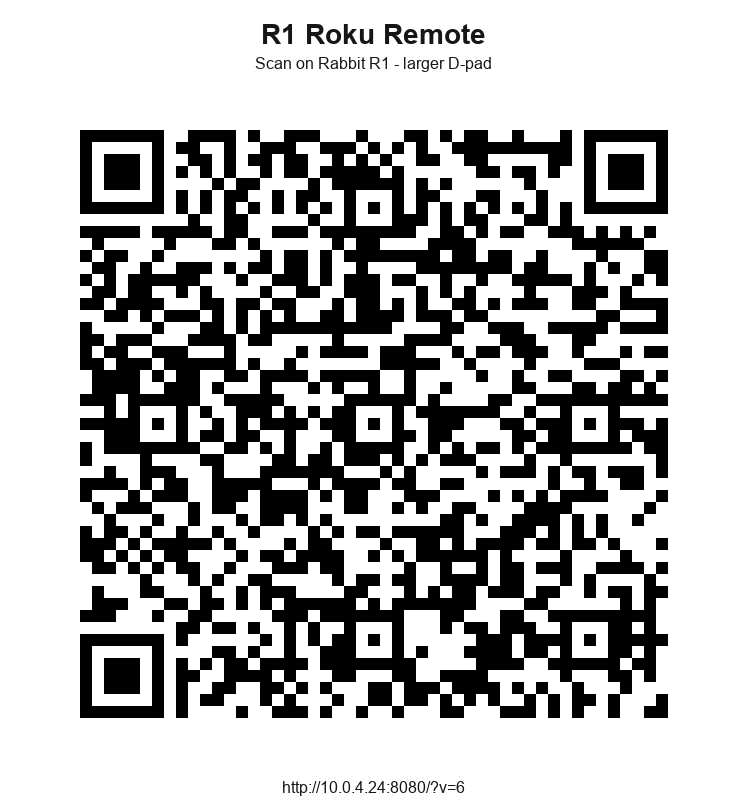
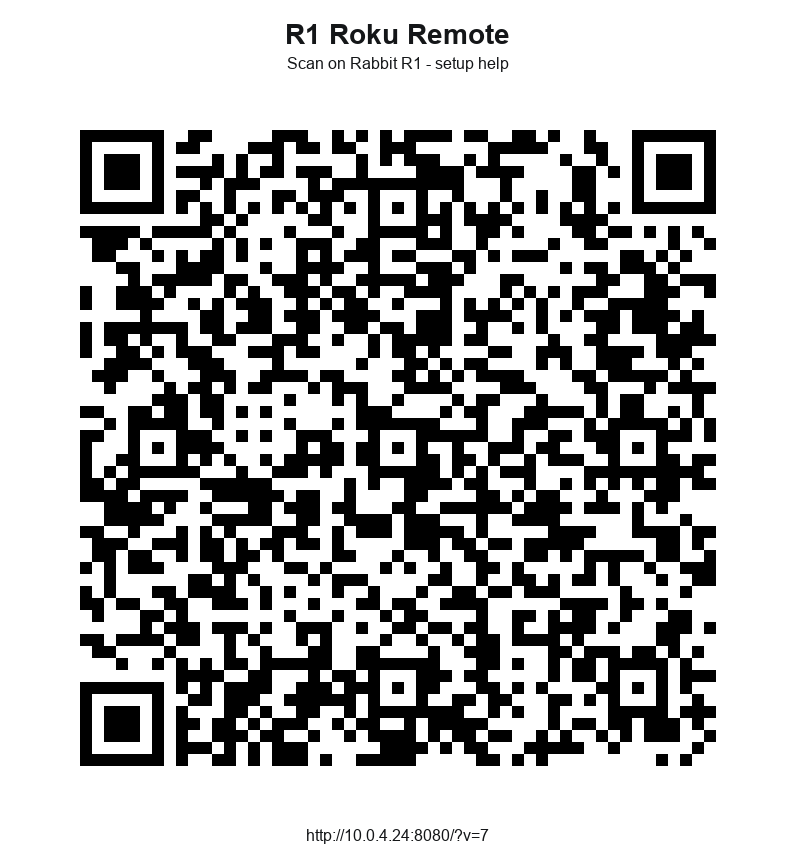
Restore remote layout and add setup help

diff --git a/web-creation/css/styles.css b/web-creation/css/styles.css
@@ -47,7 +47,7 @@ h1 {
 }
 
 p {
-    width: 190px;
+    width: 160px;
     margin: 2px 0 0;
     color: #aeb4b8;
     font-size: 9px;
@@ -58,12 +58,17 @@ p {
 }
 
 .icon-button {
-    width: 30px;
+    width: 27px;
     height: 26px;
     border: 1px solid #292d31;
     border-radius: 6px;
     color: white;
     background: #17191c;
+}
+
+.top-actions {
+    display: flex;
+    gap: 4px;
 }
 
 .hidden {
@@ -80,6 +85,43 @@ p {
     background: #101215;
     overflow-y: auto;
     box-shadow: 0 10px 24px rgba(0, 0, 0, 0.45);
+}
+
+.help-panel {
+    position: absolute;
+    inset: 38px 6px auto;
+    z-index: 6;
+    padding: 8px;
+    border: 1px solid #7b2bd1;
+    border-radius: 8px;
+    background: #101215;
+    box-shadow: 0 10px 24px rgba(0, 0, 0, 0.5);
+}
+
+.help-panel h2 {
+    margin: 0 0 5px;
+    color: #f8f5f0;
+    font-size: 14px;
+    line-height: 16px;
+}
+
+.help-panel p {
+    width: 100%;
+    margin: 0 0 5px;
+    white-space: normal;
+    color: #d5d9dd;
+    font-size: 10px;
+    line-height: 13px;
+}
+
+.help-panel button {
+    width: 100%;
+    height: 29px;
+    border: 0;
+    border-radius: 6px;
+    color: white;
+    background: #7b2bd1;
+    font-weight: 800;
 }
 
 .text-panel {
@@ -209,29 +251,26 @@ input {
 .dpad {
     display: grid;
     grid-template-columns: repeat(3, 1fr);
-    grid-template-rows: repeat(3, 48px);
+    grid-template-rows: repeat(3, 38px);
     gap: 0;
-    padding: 4px;
-    border: 1px solid #7332ba;
-    border-radius: 8px;
-    background: #38105f;
-    box-shadow: inset 0 0 0 1px #2b0b4d;
+    padding: 0;
+    border: 0;
+    border-radius: 0;
+    background: transparent;
+    box-shadow: none;
 }
 
-.dpad-key,
-.dpad-corner {
+.dpad span {
+    background: transparent;
+}
+
+.dpad-key {
     min-width: 0;
     border: 1px solid #7537bd;
     color: white;
     background: #6021a0;
     font-size: 11px;
     font-weight: 800;
-}
-
-.dpad-corner {
-    background: #4c1780;
-    color: #e9dfff;
-    font-size: 9px;
 }
 
 .dpad-up {
@@ -254,29 +293,13 @@ input {
     border-radius: 50%;
     color: #15051f;
     background: #f7f1ff;
-    font-size: 15px;
-    box-shadow: 0 0 0 3px #4c1780;
-}
-
-.dpad-replay {
-    border-radius: 8px 0 0 0;
-}
-
-.dpad-info {
-    border-radius: 0 8px 0 0;
-}
-
-.dpad-search {
-    border-radius: 0 0 0 8px;
-}
-
-.dpad-enter {
-    border-radius: 0 0 8px 0;
+    font-size: 13px;
+    box-shadow: 0 0 0 3px #050607;
 }
 
 .volume-panel {
     display: grid;
-    grid-template-rows: 18px 1fr 31px;
+    grid-template-rows: 17px 1fr 28px;
     gap: 4px;
     align-items: stretch;
 }
@@ -335,7 +358,7 @@ input {
 
 .volume-panel button {
     min-width: 0;
-    height: 31px;
+    height: 28px;
     padding: 0;
     border: 1px solid #30353a;
     border-radius: 8px;
@@ -346,8 +369,15 @@ input {
 }
 
 .transport-row button {
-    height: 36px;
+    height: 31px;
     background: #111315;
+}
+
+.utility-row button {
+    height: 29px;
+    color: #e9e2ef;
+    background: #261737;
+    border-color: #4d236f;
 }
 
 button.active,

diff --git a/web-creation/index.html b/web-creation/index.html
@@ -13,7 +13,17 @@
                 <h1>Roku</h1>
                 <p id="status">Set a Roku IP</p>
             </div>
-            <button id="settingsBtn" class="icon-button" aria-label="Settings">...</button>
+            <div class="top-actions">
+                <button id="helpBtn" class="icon-button" aria-label="Help">?</button>
+                <button id="settingsBtn" class="icon-button" aria-label="Settings">...</button>
+            </div>
+        </section>
+
+        <section id="helpPanel" class="help-panel hidden">
+            <h2>Roku Setup</h2>
+            <p>On the TV, open Settings &gt; System &gt; Advanced system settings &gt; Control by mobile apps.</p>
+            <p>Set Network access to Enabled. If buttons still fail, use Permissive.</p>
+            <button id="closeHelpBtn">Got it</button>
         </section>
 
         <section id="settings" class="settings hidden">
@@ -45,17 +55,17 @@
 
             <div class="control-stage">
                 <div class="dpad" aria-label="Directional pad">
-                    <button class="dpad-corner dpad-replay" data-key="InstantReplay" aria-label="Replay">Replay</button>
+                    <span></span>
                     <button class="dpad-key dpad-up" data-key="Up" aria-label="Up">Up</button>
-                    <button class="dpad-corner dpad-info" data-key="Info" aria-label="Info">Info</button>
+                    <span></span>
 
                     <button class="dpad-key dpad-left" data-key="Left" aria-label="Left">Left</button>
                     <button class="dpad-key dpad-ok" data-key="Select" aria-label="Select">OK</button>
                     <button class="dpad-key dpad-right" data-key="Right" aria-label="Right">Right</button>
 
-                    <button class="dpad-corner dpad-search" data-key="Search" aria-label="Search">Search</button>
+                    <span></span>
                     <button class="dpad-key dpad-down" data-key="Down" aria-label="Down">Down</button>
-                    <button class="dpad-corner dpad-enter" data-key="Enter" aria-label="Enter">Enter</button>
+                    <span></span>
                 </div>
 
                 <div class="volume-panel" aria-label="Volume controls">
@@ -74,6 +84,12 @@
                 <button data-key="Play">Play</button>
                 <button data-key="Fwd">Fwd</button>
             </div>
+
+            <div class="utility-row">
+                <button data-key="Info">Info</button>
+                <button data-key="InstantReplay">Replay</button>
+                <button data-key="Search">Search</button>
+            </div>
         </section>
 
         <section id="textPanel" class="text-panel hidden">
@@ -89,6 +105,6 @@
             <p id="voiceStatus">Voice uses browser speech when available.</p>
         </section>
     </main>
-    <script src="./js/app.js?v=6"></script>
+    <script src="./js/app.js?v=7"></script>
 </body>
 </html>

diff --git a/web-creation/js/app.js b/web-creation/js/app.js
@@ -3,7 +3,8 @@
     var state = {
         rokuIp: "",
         bridgeUrl: "",
-        activeIndex: 7
+        activeIndex: 7,
+        sawSetupHelp: false
     };
     var controls = [];
     var lastWheelAt = 0;
@@ -14,6 +15,7 @@
 
     var statusEl = document.getElementById("status");
     var settingsEl = document.getElementById("settings");
+    var helpPanel = document.getElementById("helpPanel");
     var ipInput = document.getElementById("rokuIp");
     var bridgeInput = document.getElementById("bridgeUrl");
     var devicesEl = document.getElementById("devices");
@@ -33,13 +35,19 @@
         bind();
         updateFocus();
         setStatus(state.rokuIp ? "Ready " + state.rokuIp : "Set a Roku IP");
+        if (!state.sawSetupHelp) {
+            openHelp();
+        }
         autoDiscover();
     }
 
     function bind() {
         document.getElementById("settingsBtn").addEventListener("click", function () {
             settingsEl.classList.toggle("hidden");
+            helpPanel.classList.add("hidden");
         });
+        document.getElementById("helpBtn").addEventListener("click", openHelp);
+        document.getElementById("closeHelpBtn").addEventListener("click", closeHelp);
         document.getElementById("saveBtn").addEventListener("click", saveSettings);
         document.getElementById("discoverBtn").addEventListener("click", discover);
         document.getElementById("sendTextBtn").addEventListener("click", sendText);
@@ -96,6 +104,18 @@
         state.bridgeUrl = cleanBridge(bridgeInput.value);
         await saveState();
         setStatus(state.rokuIp ? "Saved " + state.rokuIp : "Saved settings");
+    }
+
+    async function openHelp() {
+        helpPanel.classList.remove("hidden");
+        settingsEl.classList.add("hidden");
+        textPanel.classList.add("hidden");
+    }
+
+    async function closeHelp() {
+        helpPanel.classList.add("hidden");
+        state.sawSetupHelp = true;
+        await saveState();
     }
 
     async function discover() {
@@ -282,6 +302,7 @@
     function openTextPanel() {
         textPanel.classList.remove("hidden");
         settingsEl.classList.add("hidden");
+        helpPanel.classList.add("hidden");
         voiceTextInput.focus();
         setVoiceStatus("Hold side button to speak, or type.");
     }
@@ -416,7 +437,7 @@
                 state = Object.assign(state, JSON.parse(raw));
             }
         } catch (error) {
-            state = { rokuIp: "", bridgeUrl: "", activeIndex: 7 };
+            state = { rokuIp: "", bridgeUrl: "", activeIndex: 7, sawSetupHelp: false };
         }
     }
 
